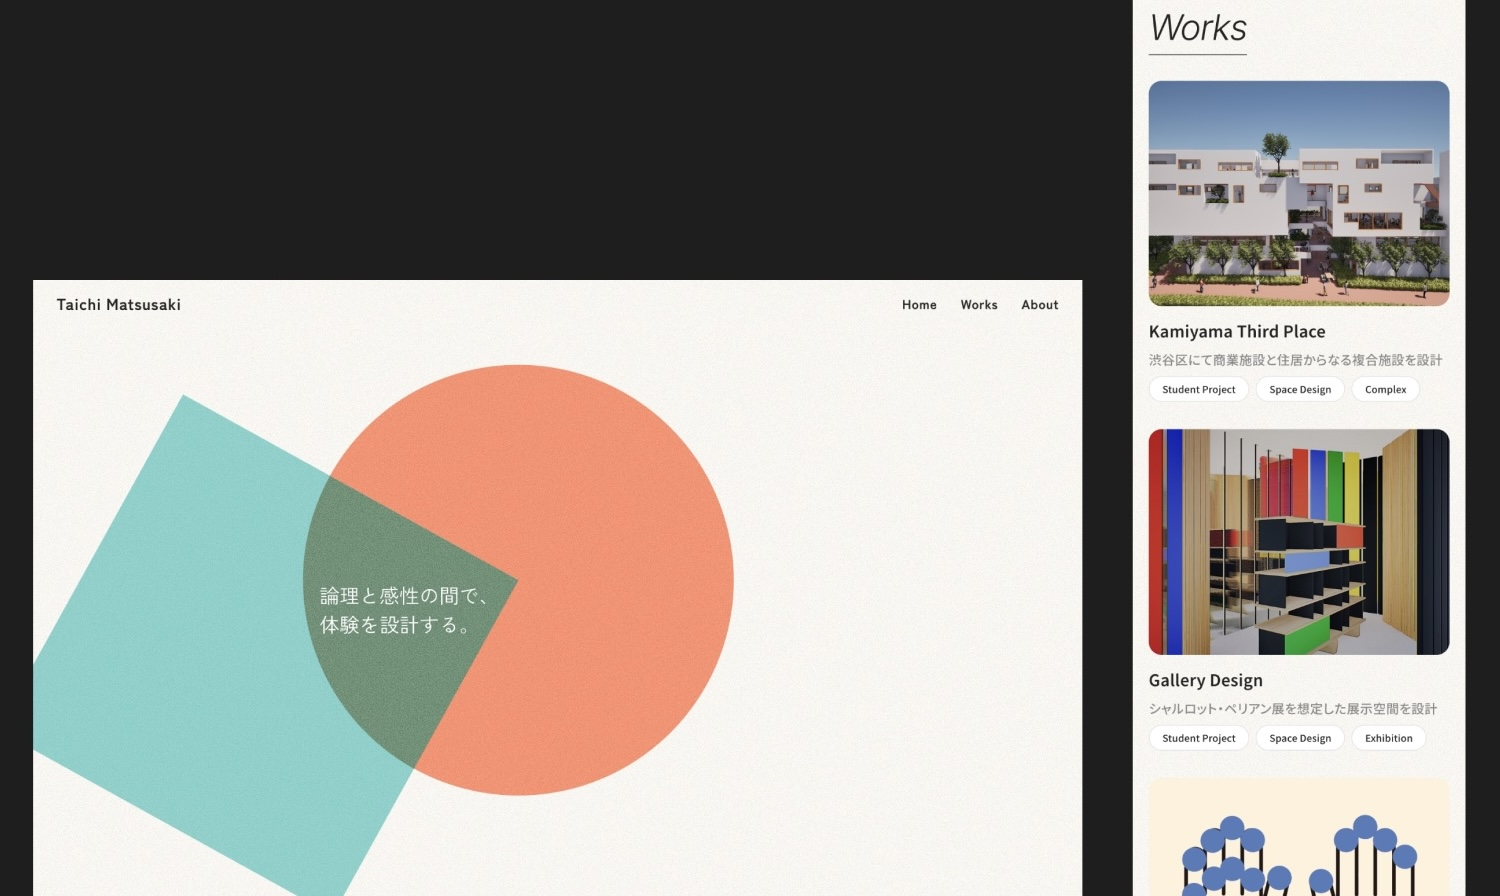
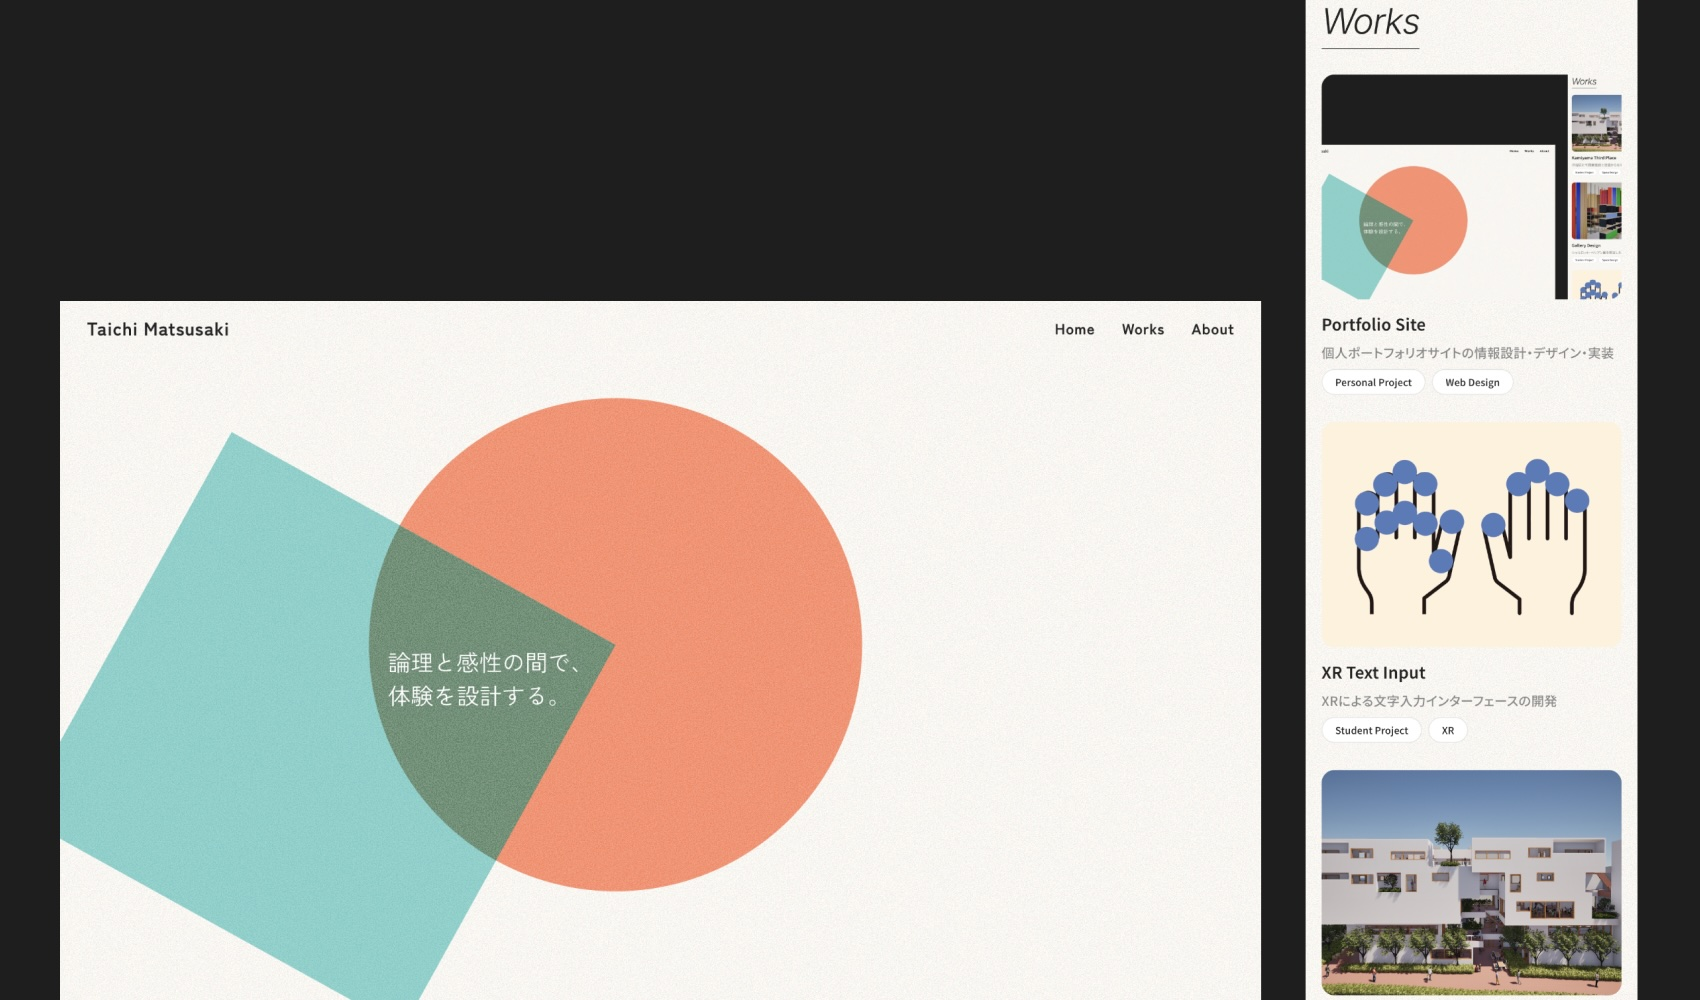
works絞り込み機能追加

Changed region(s): [[0.0, 0.0, 0.9813, 1.0], [0.3373, 0.375, 0.5213, 0.875], [0.276, 0.4062, 0.3067, 0.4375]]

diff --git a/site.js b/site.js
@@ -1,5 +1,6 @@
 window.addEventListener("load", () => {
   const worksData = window.WORKS_DATA ?? {};
+  const workCards = [...document.querySelectorAll(".work-item[data-work-key]")];
 
   document.querySelectorAll("[data-work-key]").forEach((element) => {
     const work = worksData[element.dataset.workKey];
@@ -28,6 +29,68 @@ window.addEventListener("load", () => {
       });
     });
   });
+
+  const filtersRoot = document.querySelector("[data-work-filters]");
+
+  if (filtersRoot && workCards.length > 0) {
+    const preferredFilterOrder = [
+      "Personal Project",
+      "Student Project",
+      "Web Design",
+      "Space Design",
+      "XR",
+    ];
+    const availableTags = [...new Set(
+      workCards.flatMap((card) => {
+        const work = worksData[card.dataset.workKey];
+        return work?.tags ?? [];
+      })
+    )];
+    const filterLabels = [
+      "All",
+      ...preferredFilterOrder.filter((tag) => availableTags.includes(tag)),
+      ...availableTags.filter((tag) => !preferredFilterOrder.includes(tag)),
+    ];
+
+    let selectedTag = "All";
+
+    const syncFilterButtons = () => {
+      filtersRoot.querySelectorAll("button[data-filter-tag]").forEach((button) => {
+        const tag = button.dataset.filterTag;
+        const isActive = tag === selectedTag;
+        button.classList.toggle("is-active", isActive);
+        button.setAttribute("aria-pressed", String(isActive));
+      });
+    };
+
+    const applyFilters = () => {
+      workCards.forEach((card) => {
+        const tags = worksData[card.dataset.workKey]?.tags ?? [];
+        const isVisible = selectedTag === "All" || tags.includes(selectedTag);
+        card.hidden = !isVisible;
+      });
+    };
+
+    filterLabels.forEach((label) => {
+      const button = document.createElement("button");
+      button.type = "button";
+      button.className = "works-filter-chip";
+      button.dataset.filterTag = label;
+      button.textContent = label;
+      button.setAttribute("aria-pressed", String(label === "All"));
+
+      button.addEventListener("click", () => {
+        selectedTag = label;
+        syncFilterButtons();
+        applyFilters();
+      });
+
+      filtersRoot.appendChild(button);
+    });
+
+    syncFilterButtons();
+    applyFilters();
+  }
 
   const navigationEntry = performance.getEntriesByType?.("navigation")?.[0];
   const isReload =

diff --git a/styles.css b/styles.css
@@ -242,6 +242,39 @@ body.page-ready .hero-art img {
   padding-top: 40px;
 }
 
+.works-filters {
+  display: flex;
+  flex-wrap: wrap;
+  gap: 12px;
+}
+
+.works-filter-chip {
+  appearance: none;
+  border: 1px solid #e3e3e3;
+  border-radius: 999px;
+  background: #ffffff;
+  color: #242424;
+  min-height: 40px;
+  padding: 8px 16px;
+  font-family: "Noto Sans JP", "Helvetica Neue", Arial, sans-serif;
+  font-size: 14px;
+  font-weight: 500;
+  line-height: 1;
+  letter-spacing: 0.01em;
+  cursor: pointer;
+  transition:
+    background-color 220ms ease,
+    border-color 220ms ease,
+    color 220ms ease,
+    opacity 220ms ease;
+}
+
+.works-filter-chip.is-active {
+  border-color: var(--accent-green);
+  background: var(--accent-green);
+  color: #ffffff;
+}
+
 .about-page-content {
   display: grid;
   gap: 80px;
@@ -311,6 +344,10 @@ body.page-ready .hero-art img {
   display: grid;
   grid-template-columns: repeat(2, minmax(0, 1fr));
   gap: 56px 80px;
+}
+
+.works-grid .work-item[hidden] {
+  display: none;
 }
 
 .work-link {
@@ -823,6 +860,16 @@ body.page-ready .hero-art img {
   .about-page-intro {
     gap: 20px;
     padding-top: 16px;
+  }
+
+  .works-filters {
+    gap: 8px;
+  }
+
+  .works-filter-chip {
+    min-height: 36px;
+    padding: 8px 14px;
+    font-size: 13px;
   }
 
   .about-page-content {

diff --git a/works/index.html b/works/index.html
@@ -33,6 +33,7 @@
           <div class="section-title">
             <h1>Works</h1>
           </div>
+          <div class="works-filters" aria-label="作品タグ絞り込み" data-work-filters></div>
         </section>
 
         <section class="works-section works-section-page">
